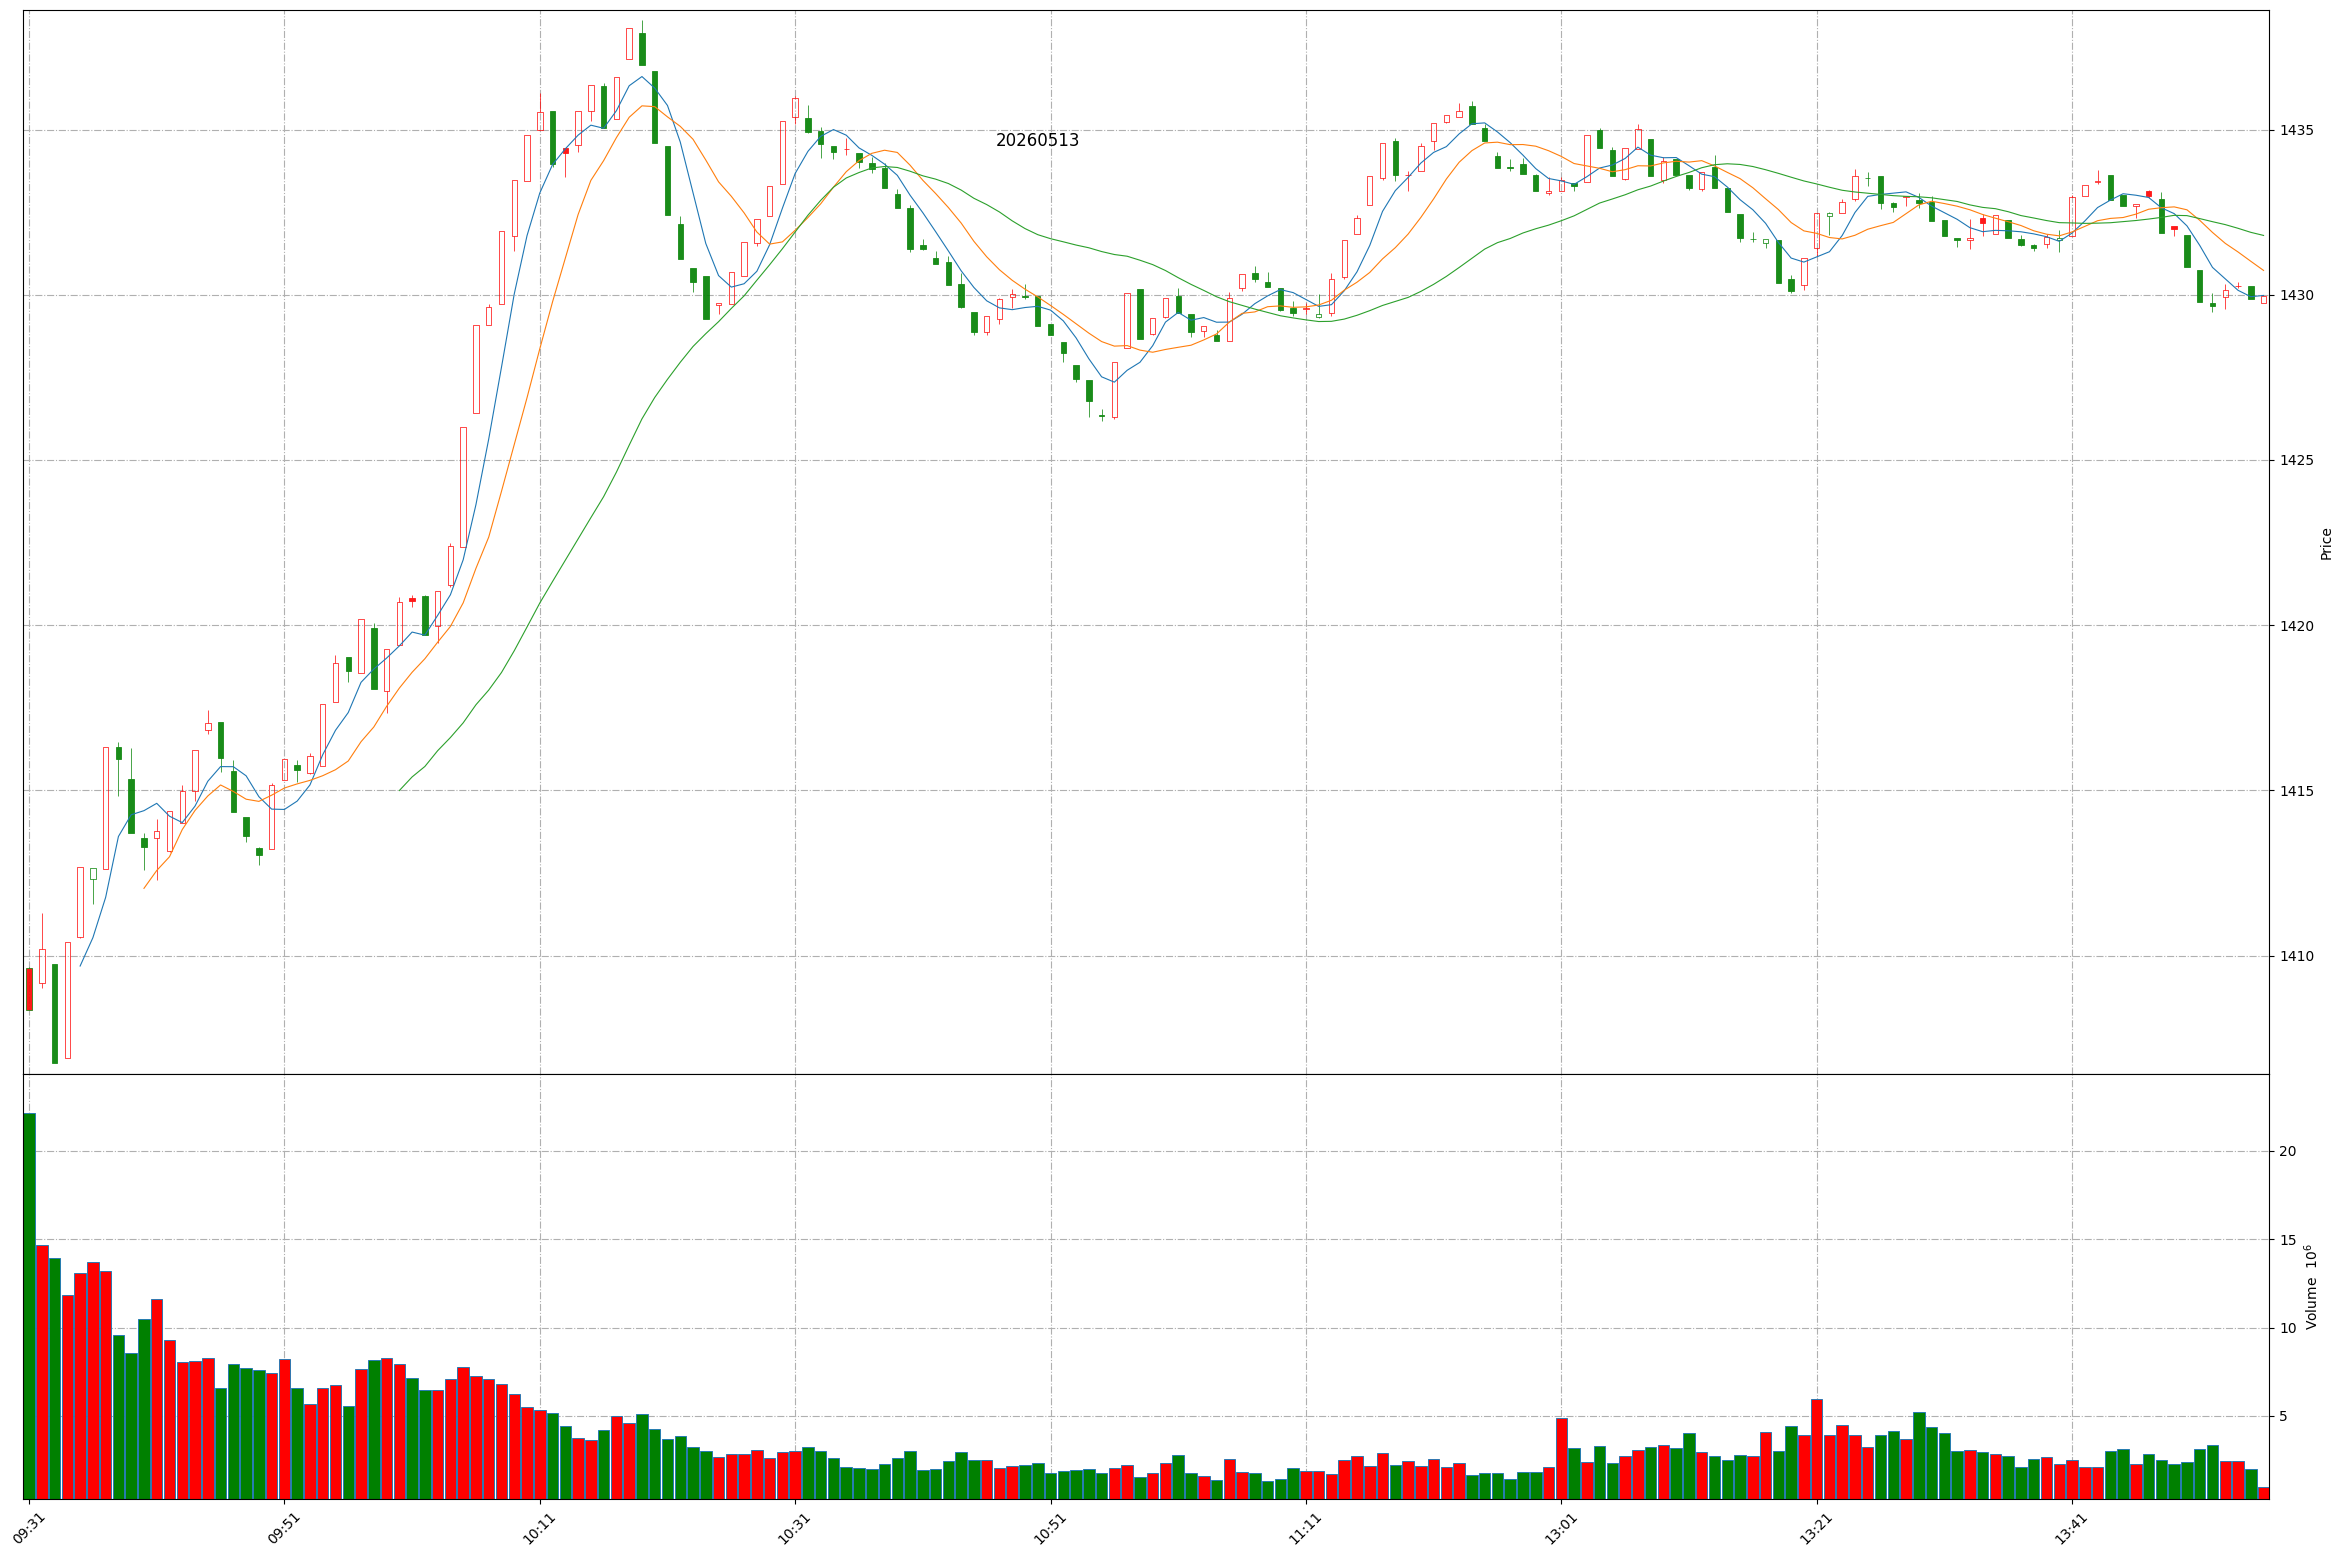
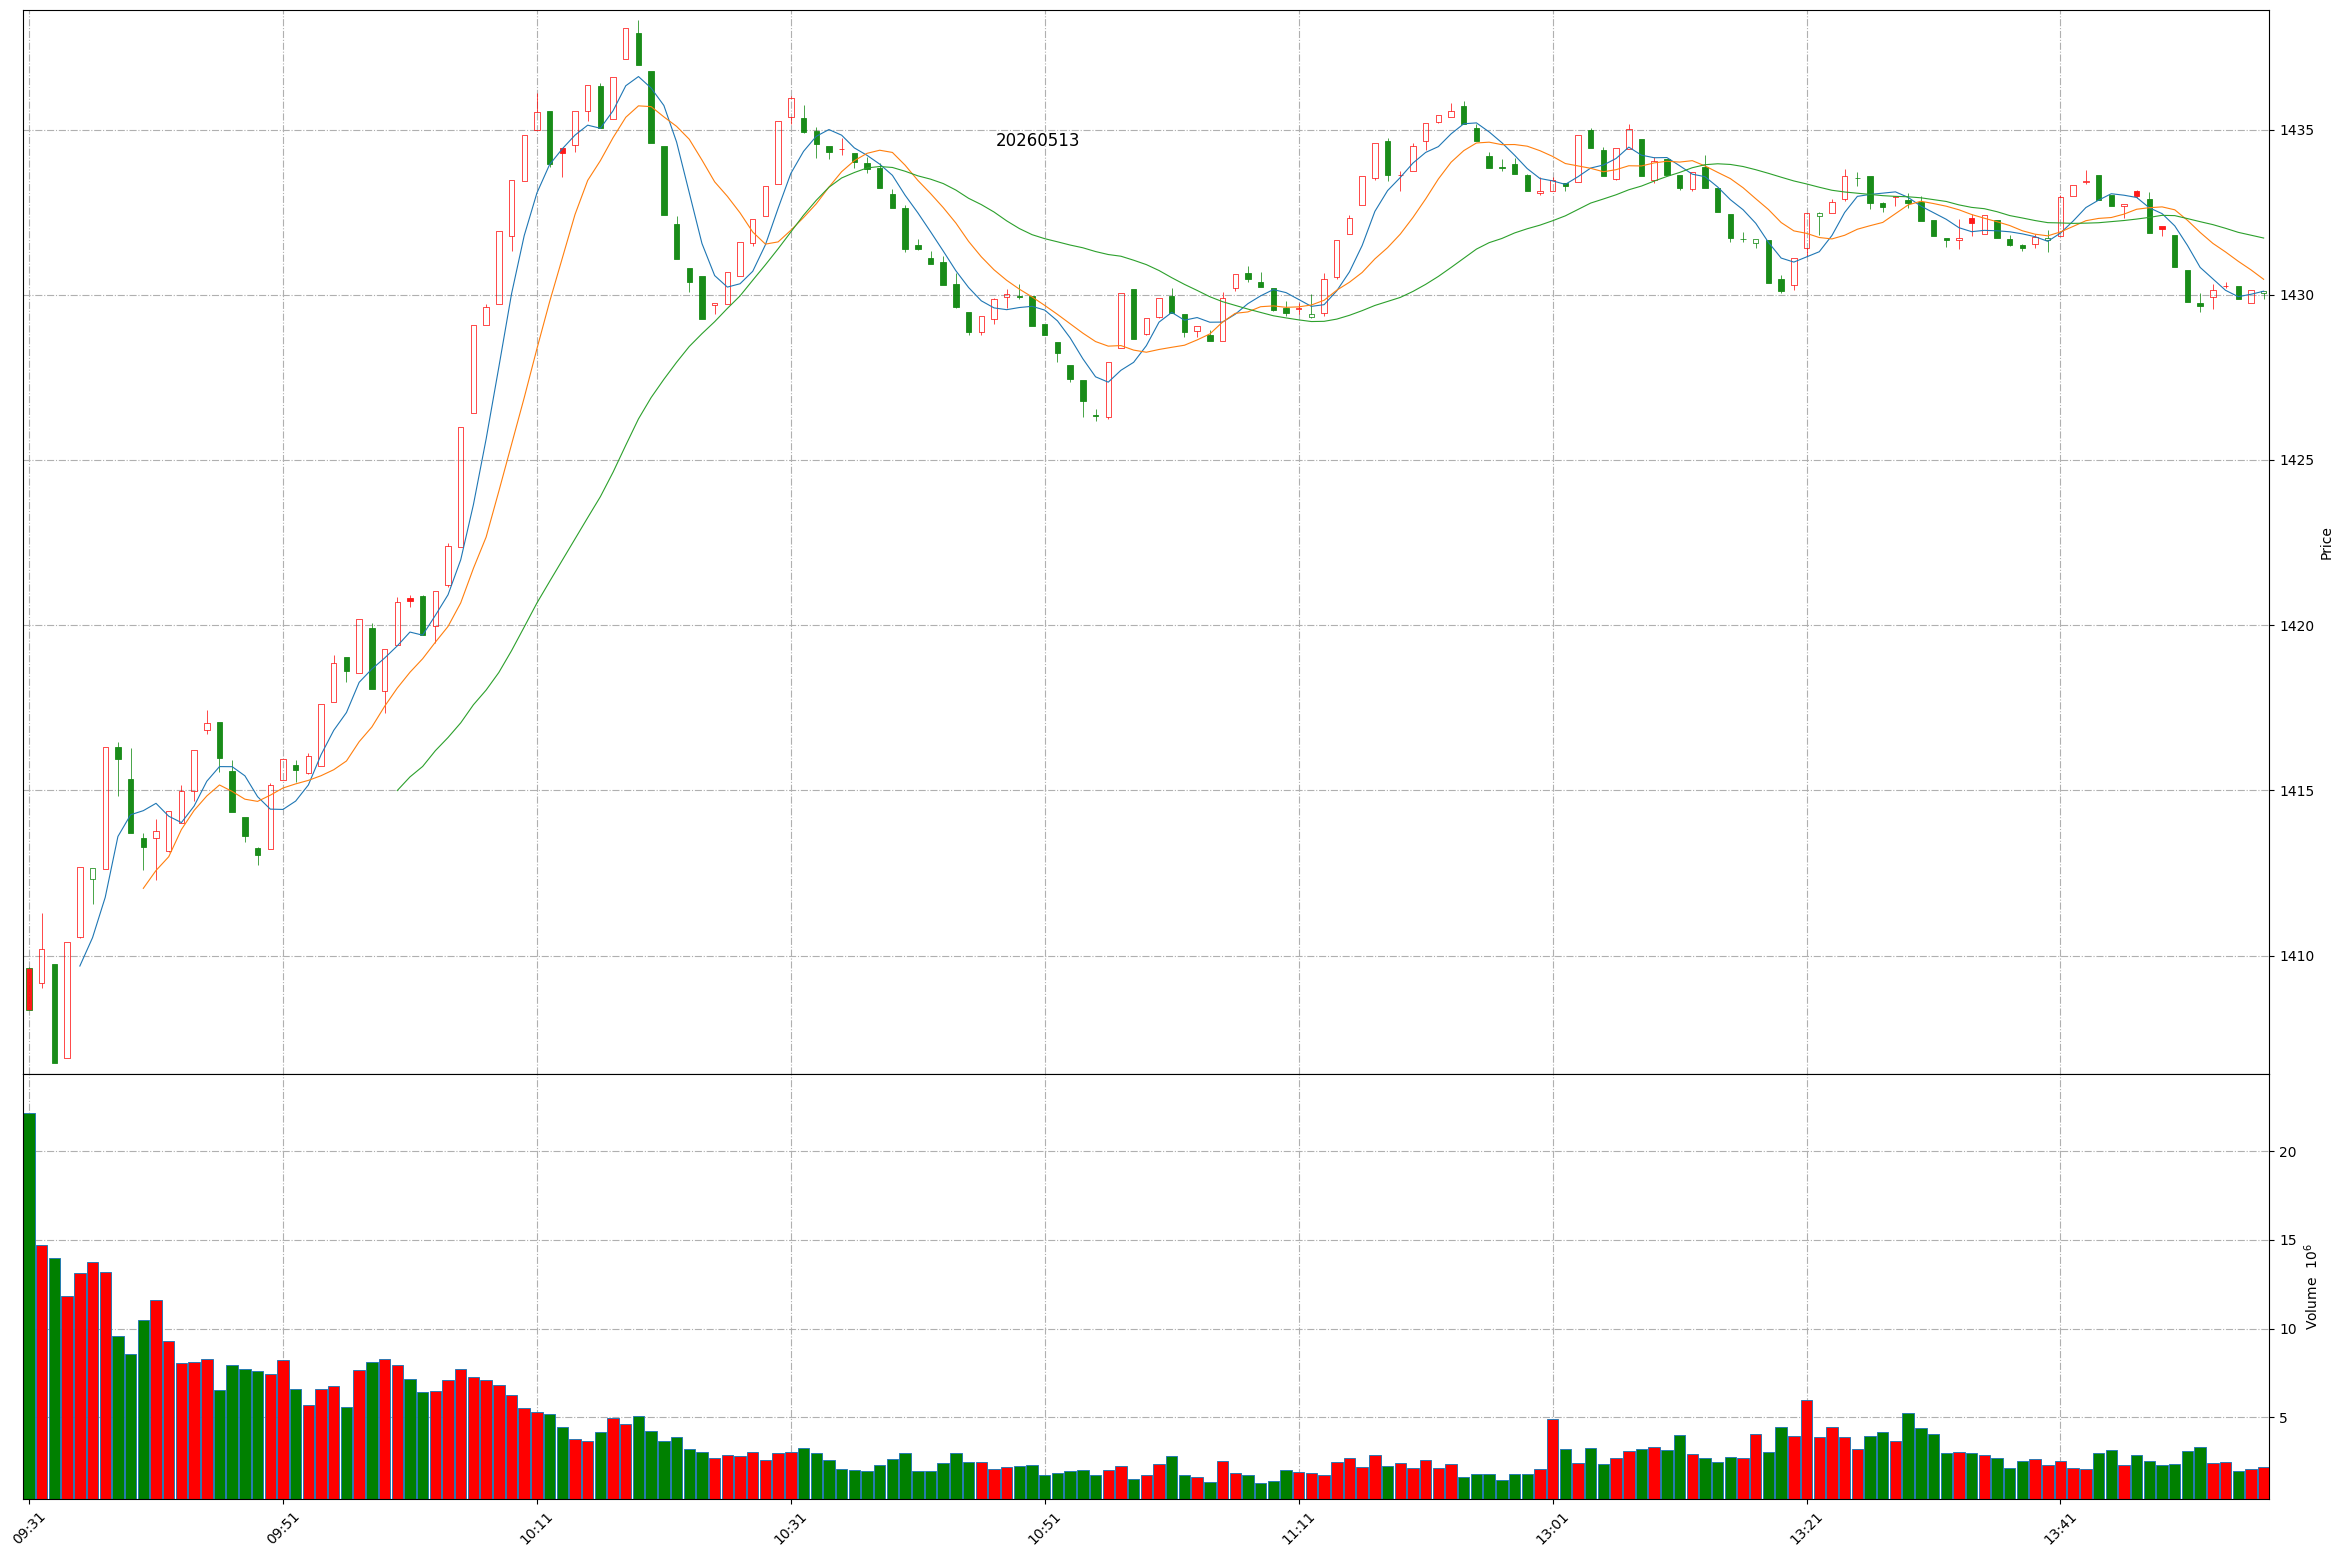
Github action update at 2026-05-13 13:57:13.

diff --git a/README.md b/README.md
@@ -1,11 +1,11 @@
 
 # Daily-A-share-market-quotes 每日 A 股指数（5min 更新）- 20260513
 
-### 上证指数 20260513 13:55
+### 上证指数 20260513 13:57
 ![](./fig/2026/5/20260513-sh000001.png)
 
-### 深证成指 20260513 13:55
+### 深证成指 20260513 13:57
 ![](./fig/2026/5/20260513-sz399001.png)
 
-### 北证50 20260513 13:55
+### 北证50 20260513 13:57
 ![](./fig/2026/5/20260513-bj899050.png)
